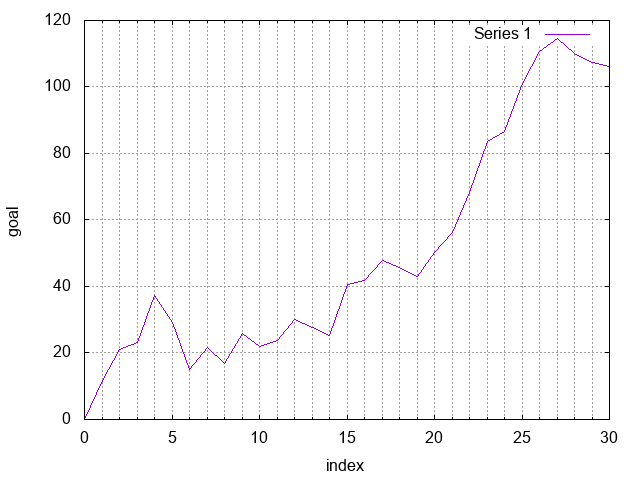
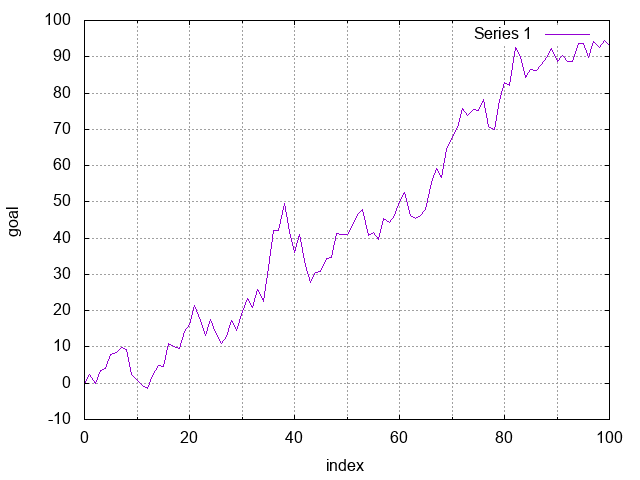
Using consistent values for GBM and brown

diff --git a/src/index.js b/src/index.js
@@ -80,7 +80,7 @@ var norm = module.exports.norm = function(mu: number, sigma: number, num: number
  * Returns an array corresponding to the path of [Brownian motion](http://en.wikipedia.org/wiki/Wiener_process#Related_processes) from time 0 to T with drift parameter mu and volatility parameter sigma (the process is initialized to be 0). The i-th entry in the array corresponds to the Brownian process at time i * (T/steps).
  * 
  * ![brown](out/brown.png)
- * @example var brown = stoch.brown(1.0, +5.0, +60, 30, true);
+ * @example var brown = stoch.brown(1.0, -0.1, +0.1, 100, true);
  * @param {number} mu drift parameter (a real number)
  * @param {number} sigma volatility parameter (strictly positive real) 
  * @param {number} T time (strictly positive real)
@@ -115,7 +115,7 @@ var brown = module.exports.brown = function(mu: number, sigma: number, T: number
  * Returns an array corresponding to the path of [geometric Brownian motion](http://en.wikipedia.org/wiki/Geometric_Brownian_motion) from time 0 to T with drift parameter mu and volatility parameter sigma (the process is initialized to be S0). The i-th entry in the array corresponds to the geometric Brownian process at time i * (T/steps).
  * 
  * ![GBM](out/GBM.png)
- * @example var GBM = stoch.GBM(1.0, -0.25, 2.0, 4.0, 1000, true);
+ * @example var GBM = stoch.GBM(1.0, -0.1, 0.1, 1.0, 100, true);
  * @param {number} S0 initialized process value
  * @param {number} mu drift parameter
  * @param {number} sigma volatility parameter (strictly positive real)

diff --git a/src/types.js b/src/types.js
@@ -30,4 +30,4 @@ console.log(Math.sign(-5));
 console.log(isNonNegative(8));
 console.log(isMatrix([[]]));
 console.log(isSymetricMatrix([[1], [1,2,3], [1], [1,2,3]]));
-console.log(isSymetricMatrix([[1], [1]));
+console.log(isSymetricMatrix([[1], [1]]));

diff --git a/examples/brown.js b/examples/brown.js
@@ -4,7 +4,7 @@ var plot = require('plotter').plot;
 var stoch = require('../src/index');
 var report = require('./report');
 
-var brown = stoch.brown(1.0, 5.0, 60, 30, true);
+var brown = stoch.brown(1.0, -0.1, 0.1, 100, true);
 
 console.log(brown);
 

diff --git a/examples/GBM.js b/examples/GBM.js
@@ -3,7 +3,7 @@ var plot = require('plotter').plot;
 
 var stoch = require('../src/index');
 
-var GBM = stoch.GBM(1.0, -0.25, 2.0, 4.0, 1000, true);
+var GBM = stoch.GBM(1.0, -0.1, 0.1, 1.0, 100, true);
 
 console.log(GBM);
 
